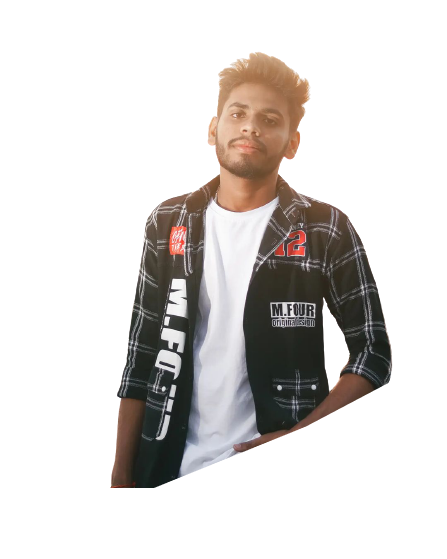
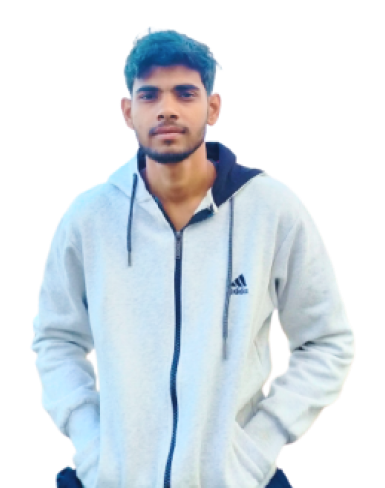
all changed for jeevan

diff --git a/src/Components/Testimonials/Testimonials.jsx b/src/Components/Testimonials/Testimonials.jsx
@@ -15,23 +15,23 @@ const Testimonials = () => {
     const clients = [
         {
             img: Profile1,
-            review: 'Lorem ipsum, dolor sit amet consectetur adipisicing elit. Dolore sequi et tenetur nisi doloribus distinctio reiciendis fuga neque architecto nobis quam vel iure, porro dolorum minima. Officiis aliquam cumque possimus?'
+            review: 'Working with Jeeva was an absolute game-changer for our project. His expertise in development, attention to detail, and commitment to deadlines helped bring our vision to life seamlessly. Jeeva not only understood our needs but also provided valuable insights that enhanced the final product. Highly recommend him for any project!'
         },
         {
             img: Profile2,
-            review: 'Lorem ipsum, dolor sit amet consectetur adipisicing elit. Dolore sequi et tenetur nisi doloribus distinctio reiciendis fuga neque architecto nobis quam vel iure, porro dolorum minima. Officiis aliquam cumque possimus?'
+            review: 'Working with Jeeva was an absolute game-changer for our project. His expertise in development, attention to detail, and commitment to deadlines helped bring our vision to life seamlessly. Jeeva not only understood our needs but also provided valuable insights that enhanced the final product. Highly recommend him for any project!'
         },
         {
             img: Profile3,
-            review: 'Lorem ipsum, dolor sit amet consectetur adipisicing elit. Dolore sequi et tenetur nisi doloribus distinctio reiciendis fuga neque architecto nobis quam vel iure, porro dolorum minima. Officiis aliquam cumque possimus?'
+            review: 'Working with Jeeva was an absolute game-changer for our project. His expertise in development, attention to detail, and commitment to deadlines helped bring our vision to life seamlessly. Jeeva not only understood our needs but also provided valuable insights that enhanced the final product. Highly recommend him for any project!'
         },
         {
             img: Profile4,
-            review: 'Lorem ipsum, dolor sit amet consectetur adipisicing elit. Dolore sequi et tenetur nisi doloribus distinctio reiciendis fuga neque architecto nobis quam vel iure, porro dolorum minima. Officiis aliquam cumque possimus?'
+            review: 'Working with Jeeva was an absolute game-changer for our project. His expertise in development, attention to detail, and commitment to deadlines helped bring our vision to life seamlessly. Jeeva not only understood our needs but also provided valuable insights that enhanced the final product. Highly recommend him for any project!'
         },
         {
             img: Profile5,
-            review: 'Lorem ipsum, dolor sit amet consectetur adipisicing elit. Dolore sequi et tenetur nisi doloribus distinctio reiciendis fuga neque architecto nobis quam vel iure, porro dolorum minima. Officiis aliquam cumque possimus?'
+            review: 'Working with Jeeva was an absolute game-changer for our project. His expertise in development, attention to detail, and commitment to deadlines helped bring our vision to life seamlessly. Jeeva not only understood our needs but also provided valuable insights that enhanced the final product. Highly recommend him for any project!'
         },
     ]
 

diff --git a/src/Components/Intro/Intro.jsx b/src/Components/Intro/Intro.jsx
@@ -23,18 +23,16 @@ const Intro = () => {
       <div className="i-left">
         <div className="i-name">
           <span>Hy! I Am </span>
-          <span>Aditya Raj</span>
+          <span>Jeevan</span>
           <span>
-            Lorem ipsum dolor sit amet consectetur adipisicing elit. Explicabo
-            totam natus voluptas porro nemo alias <br /> accusantium ab repellendus
-            atque illum?
+            A Passionate Full Stack JavaScript Developer | Crafting Seamless User Experiences with React, Node, and Next.js
           </span>
         </div>
-        <button className=" button i-button">Hire Me</button>
+        <button className=" button i-button" onClick={()=> (window.location.href="mailto:jeevankr9142@gmail.com")}>Hire Me</button>
         <div className="i-icon">
-          <img src={Github} alt="" srcset="" />
-          <img src={LinkedIn} alt="" srcset="" />
-          <img src={Instagram} alt="" srcset="" />
+          <img src={Github} alt="" srcset="" onClick={() => (window.location.href= "https://github.com/jeevansarma" )} />
+          <img src={LinkedIn} alt="" srcset="" onClick={() => (window.location.href= "https://www.linkedin.com/in/jeevan-kumar-091875324/" )}/>
+          <img src={Instagram} alt="" srcset="" onClick={() => (window.location.href= "https://www.instagram.com/jeevan.0574/profilecard/?igsh=M2hjMGZsbThmcGR5" )}/>
         </div>
       </div>
       <div className="i-right">

diff --git a/src/Components/Footer/Footer.jsx b/src/Components/Footer/Footer.jsx
@@ -1,19 +1,19 @@
 import React from 'react'
 import './Footer.css'
 import Wave from '../../img/wave.png' 
-import Insta from '@iconscout/react-unicons/icons/uil-instagram'
-import Git from '@iconscout/react-unicons/icons/uil-github'
-import Linkedin from '@iconscout/react-unicons/icons/uil-linkedin'
+// import Insta from '@iconscout/react-unicons/icons/uil-instagram'
+// import Git from '@iconscout/react-unicons/icons/uil-github'
+// import Linkedin from '@iconscout/react-unicons/icons/uil-linkedin'
 export const Footer = () => {
   return (
     <div className="footer">
         <img src={Wave} alt="" srcset="" style={{width: '100%'}} />
         <div className="f-content">
-            <span>anurag.console@gmail.com</span>
+            <span>jeevankr9142@gmail.com</span>
             <div className="f-icons">
-                <Insta color='white' className='insta' size='3rem'/>
+                {/* <Insta color='white' className='insta' size='3rem'/>
                 <Git color='white' size='3rem'/>
-                <Linkedin color='white' size='3rem'/>
+                <Linkedin color='white' size='3rem'/> */}
             </div>
         </div>
     </div>

diff --git a/src/Components/Contact/Contact.jsx b/src/Components/Contact/Contact.jsx
@@ -1,21 +1,21 @@
 import React, { useState } from 'react'
 import './Contact.css'
-import emailjs from '@emailjs/browser';
+// import emailjs from '@emailjs/browser';
 import { useRef } from 'react';
 const Contact = () => {
 
     const form = useRef();
     const [done, setDone] = useState(false)
     const sendEmail = (e) => {
-      e.preventDefault();
+    //   e.preventDefault();
   
-      emailjs.sendForm('service_pbk96d8', 'template_v9bijpc', form.current, 'wyeMuCTypIGGg97jC')
-        .then((result) => {
-            console.log(result.text);
-            setDone(true);
-        }, (error) => {
-            console.log(error.text);
-        });
+    //   emailjs.sendForm('service_pbk96d8', 'template_v9bijpc', form.current, 'wyeMuCTypIGGg97jC')
+    //     .then((result) => {
+    //         console.log(result.text);
+    //         setDone(true);
+    //     }, (error) => {
+    //         console.log(error.text);
+    //     });
     };
 
 

diff --git a/src/Components/Works/Works.jsx b/src/Components/Works/Works.jsx
@@ -13,7 +13,7 @@ const Works = () => {
             <div className="awesome">
     <span>Work For All These</span>
     <span>Brand & Client</span>
-    <span>Lorem ipsum dolor sit amet, consectetur adipisicing elit. <br /> Quibusdam minima dolorum totam voluptatem voluptate,<br /> soluta repellendus iure culpa quidem ut adipisci.<br />nulla incidunt, repellendus iure culpa quidem ut adipisci.<br />nulla incidunt, repellendus iure culpa quidem ut adipisci.</span>
+    <span>I’ve had the privilege to work with a diverse range of brands <br /> and clients, delivering customized digital solutions that <br /> elevate their online presence and achieve impactful results.</span>
     
     <button className="button s-button">Hire Me</button>
     

diff --git a/src/Components/Toggle/Toggle.jsx b/src/Components/Toggle/Toggle.jsx
@@ -1,7 +1,7 @@
 import React from 'react'
 import './Toggle.css'
-import Sun from '@iconscout/react-unicons/icons/uil-sun'
-import Moon from '@iconscout/react-unicons/icons/uil-moon'
+// import Sun from '@iconscout/react-unicons/icons/uil-sun'
+// import Moon from '@iconscout/react-unicons/icons/uil-moon'
 import { themeContext } from '../../Context'
 import { useContext } from 'react'
 export const Toggle = () => {
@@ -12,8 +12,8 @@ export const Toggle = () => {
     }
   return (
     <div className="toggle" onClick={handleClick} >
-        <Moon/>
-        <Sun/>
+        {/* <Moon/>
+        <Sun/> */}
         <div className="t-button"
                         style={darkmode?{left: '2px'}: {right: '2px'}}
                         

diff --git a/src/Components/Services/Services.jsx b/src/Components/Services/Services.jsx
@@ -18,7 +18,7 @@ const Services = () => {
     <div className="awesome">
     <span>My Awesome</span>
     <span>Services</span>
-    <span>Lorem ipsum dolor sit amet, consectetur adipisicing elit. Quibusdam minima dolorum totam voluptatem voluptate, soluta obcaecati assumenda <br />nulla incidunt, repellendus iure culpa quidem ut adipisci.</span>
+    <span>I offer comprehensive digital services, including freelancing, website and app development, and end-to-end project support, <br /> delivering tailored, high-quality solutions to meet unique business needs and drive success..</span>
     <a href={Resume} target='_blank'>
     <button className="button s-button">Download CV</button>
     </a>

diff --git a/src/Components/Navbar/Navbar.jsx b/src/Components/Navbar/Navbar.jsx
@@ -5,7 +5,7 @@ const Navbar = ()=>{
     return(
         <div className="n-wrapper">
             <div className="n-left">
-                <div className="n-name">Anurag</div>
+                <div className="n-name">Jeevan</div>
                 <Toggle/>
             </div>
             <div className="n-right">

diff --git a/src/Components/Portfolio/Portfolio.jsx b/src/Components/Portfolio/Portfolio.jsx
@@ -16,7 +16,7 @@ const Portfolio = () => {
 
         {/* slider */}
 
-        <Swiper spaceBetween={30}
+        <Swiper spaceBetween={50}
         slidesPerView={3}
         grabCursor={true}
         // loop={true}

diff --git a/src/Components/Intro/intro.css b/src/Components/Intro/intro.css
@@ -94,7 +94,7 @@
 {
     transform: scale(1.2);
     left: 2%;
-    bottom: 26%;
+    bottom: 38%;
 }
 
 .i-right>:nth-child(4)
